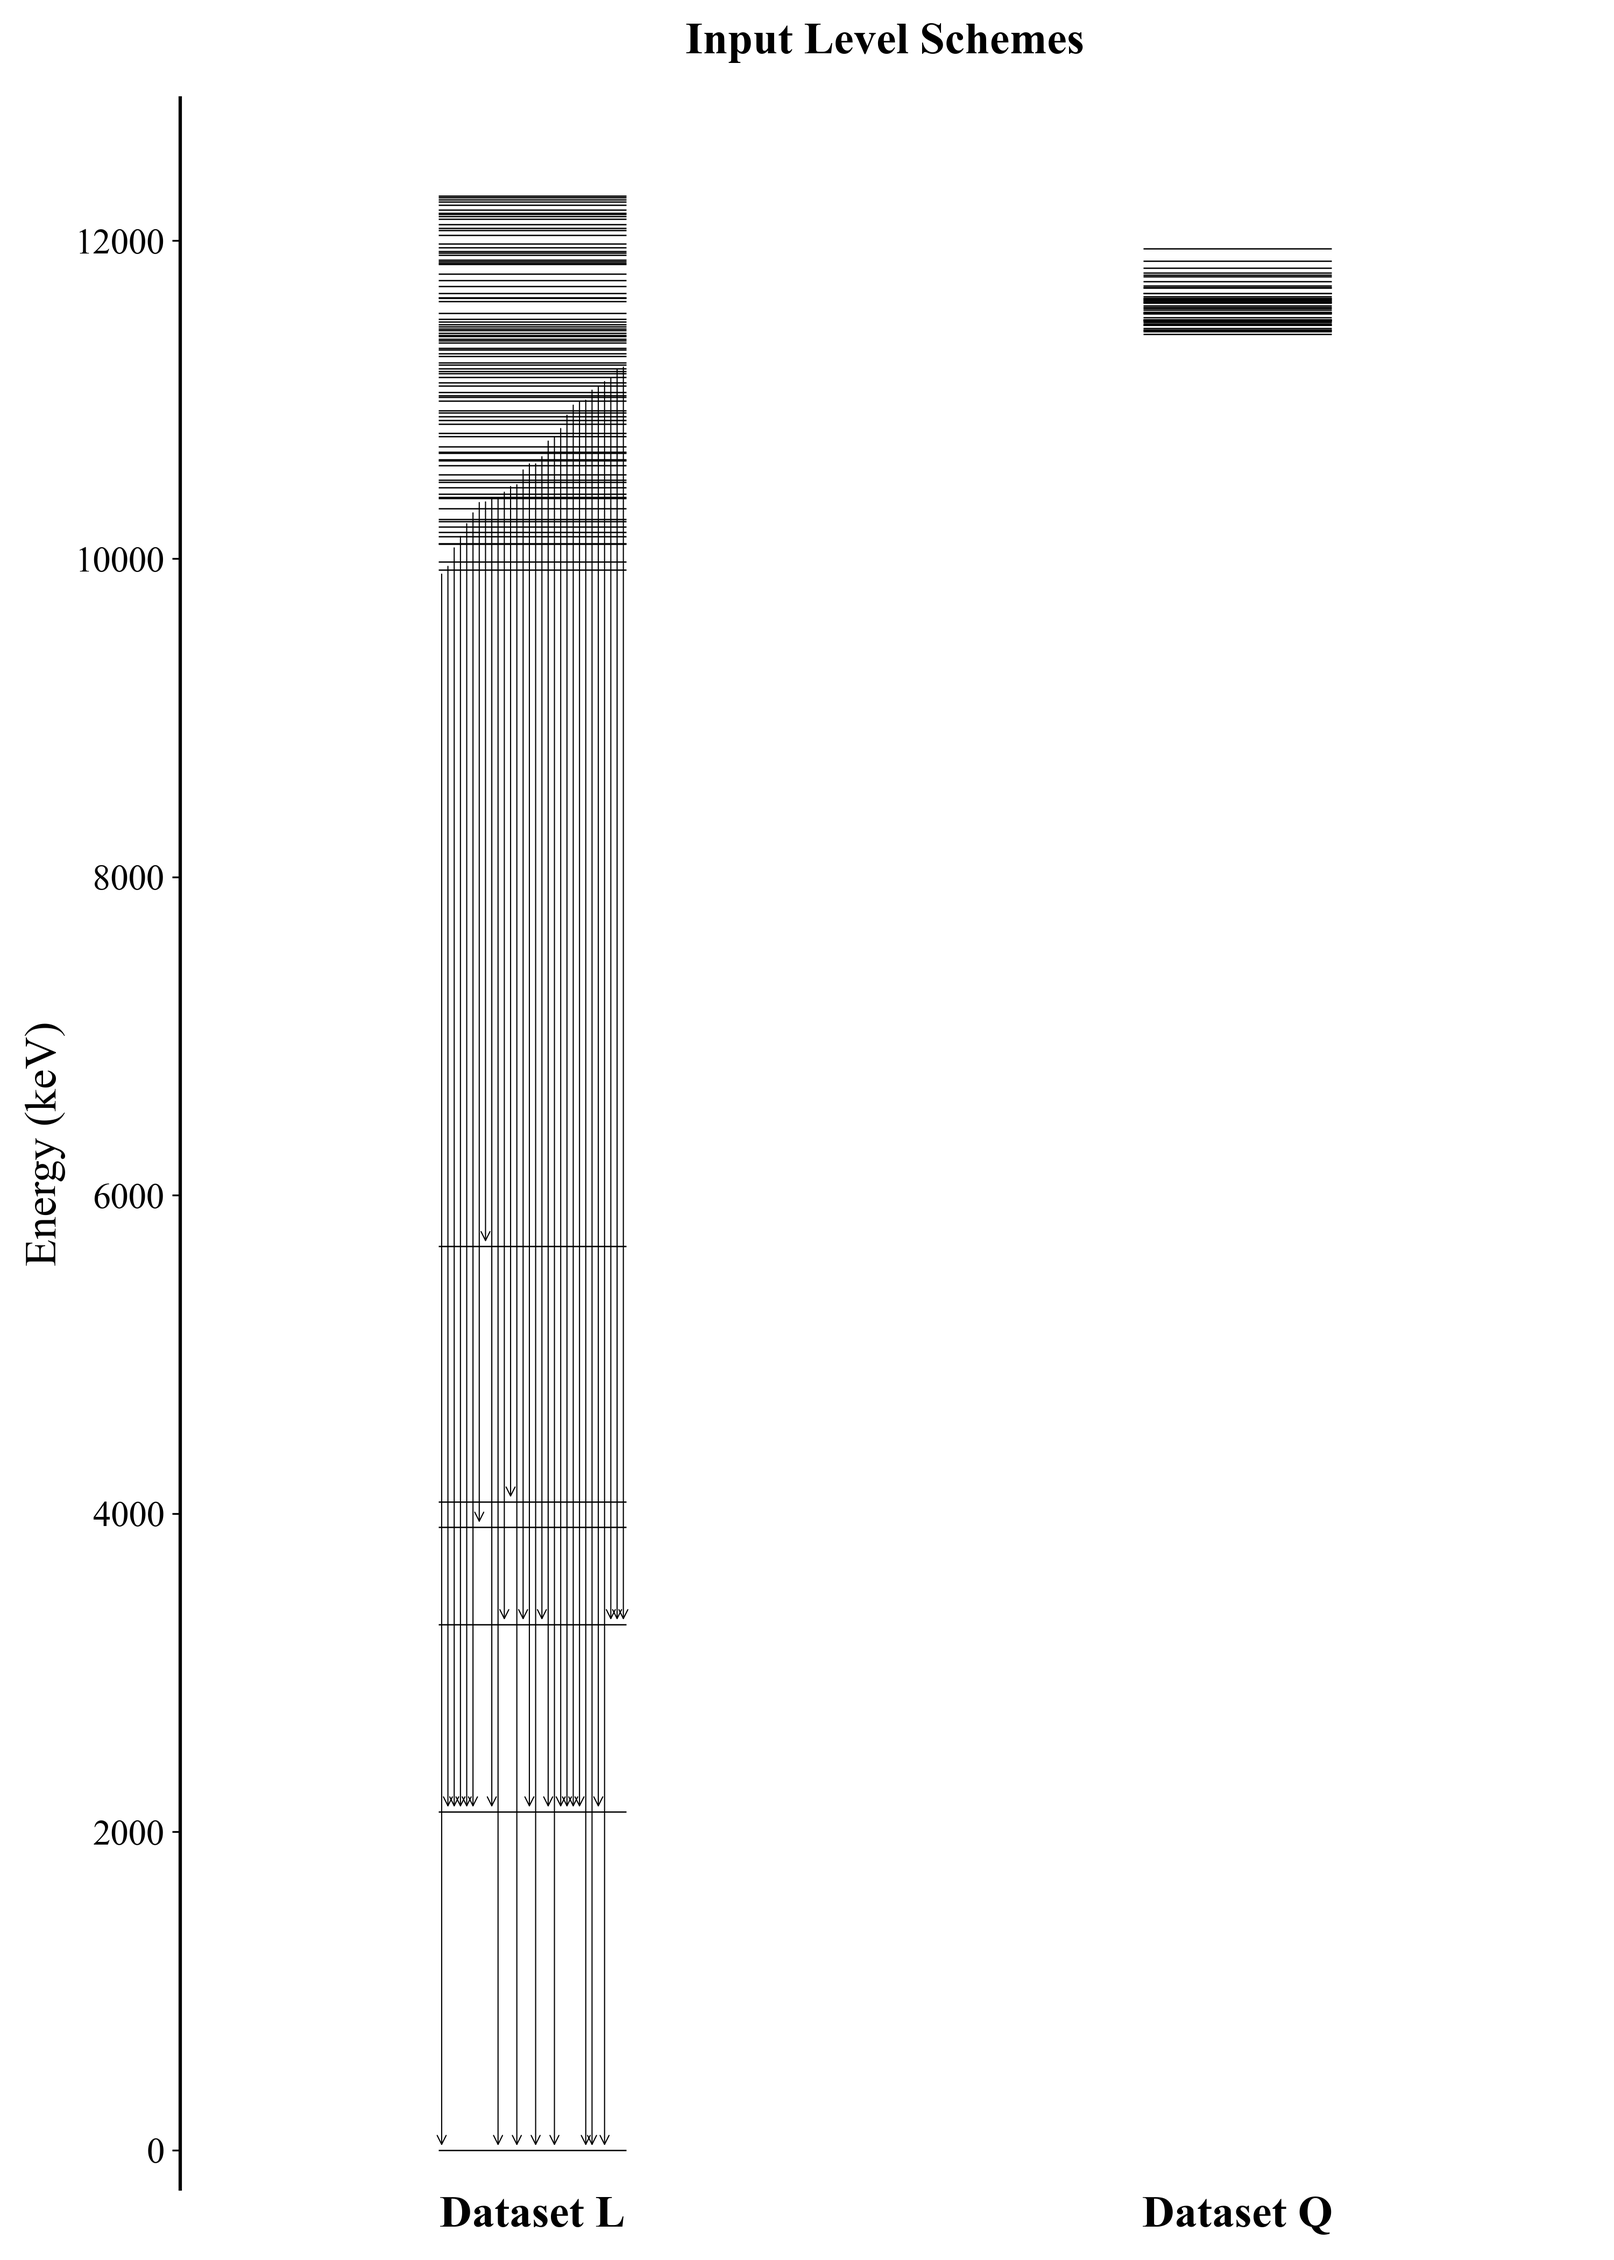
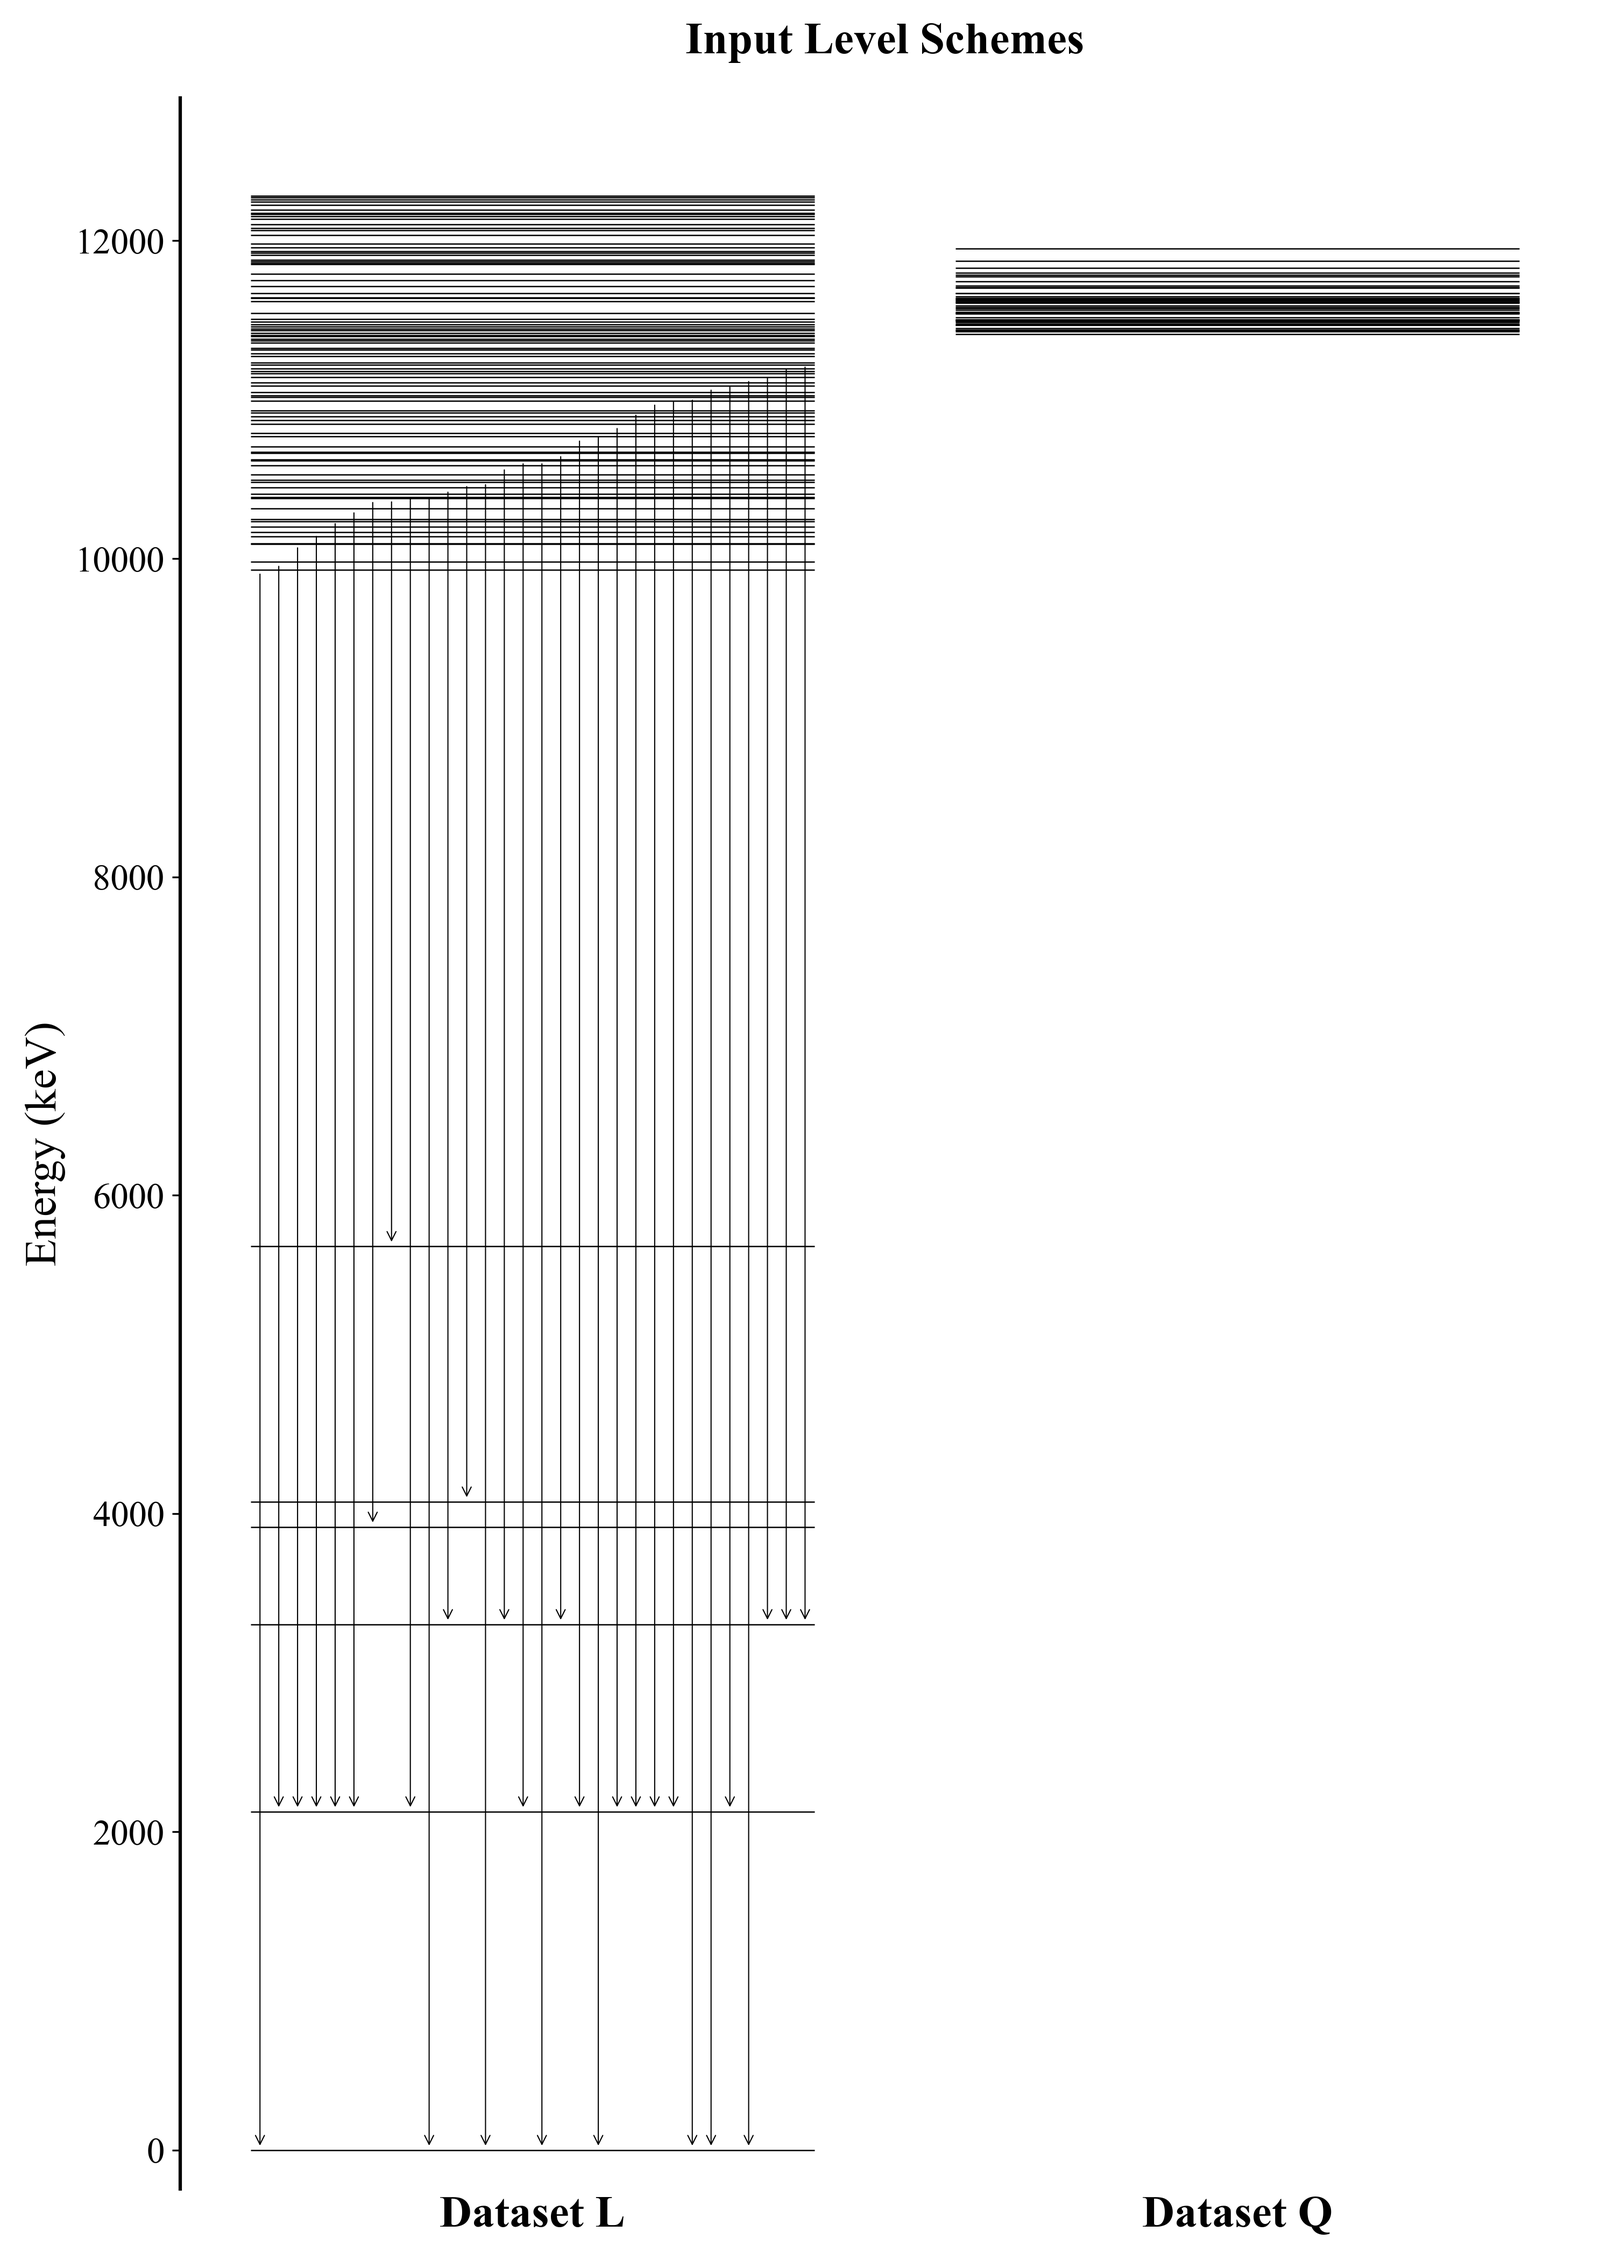
Update level scheme bar width for improved visualization; replace input level scheme image

diff --git a/Combined_Visualizer.py b/Combined_Visualizer.py
@@ -45,7 +45,7 @@ from Level_Matcher import inference_dataset_labels
 
 # Tunable level scheme layout knobs (bars and arrows are drawn to the true energy scale)
 level_scheme_column_spacing = 3.0         # Horizontal distance between dataset columns
-level_scheme_bar_width = 0.8              # Level bar length; gamma arrows spread within this width
+level_scheme_bar_width = 2.4             # Level bar length; gamma arrows spread within this width
 level_scheme_maximum_arrows = 30          # Strongest gamma transitions drawn per dataset
 level_scheme_figure_height_inches = 14.0  # Shared-axis figure height for comparable energy scales
 
